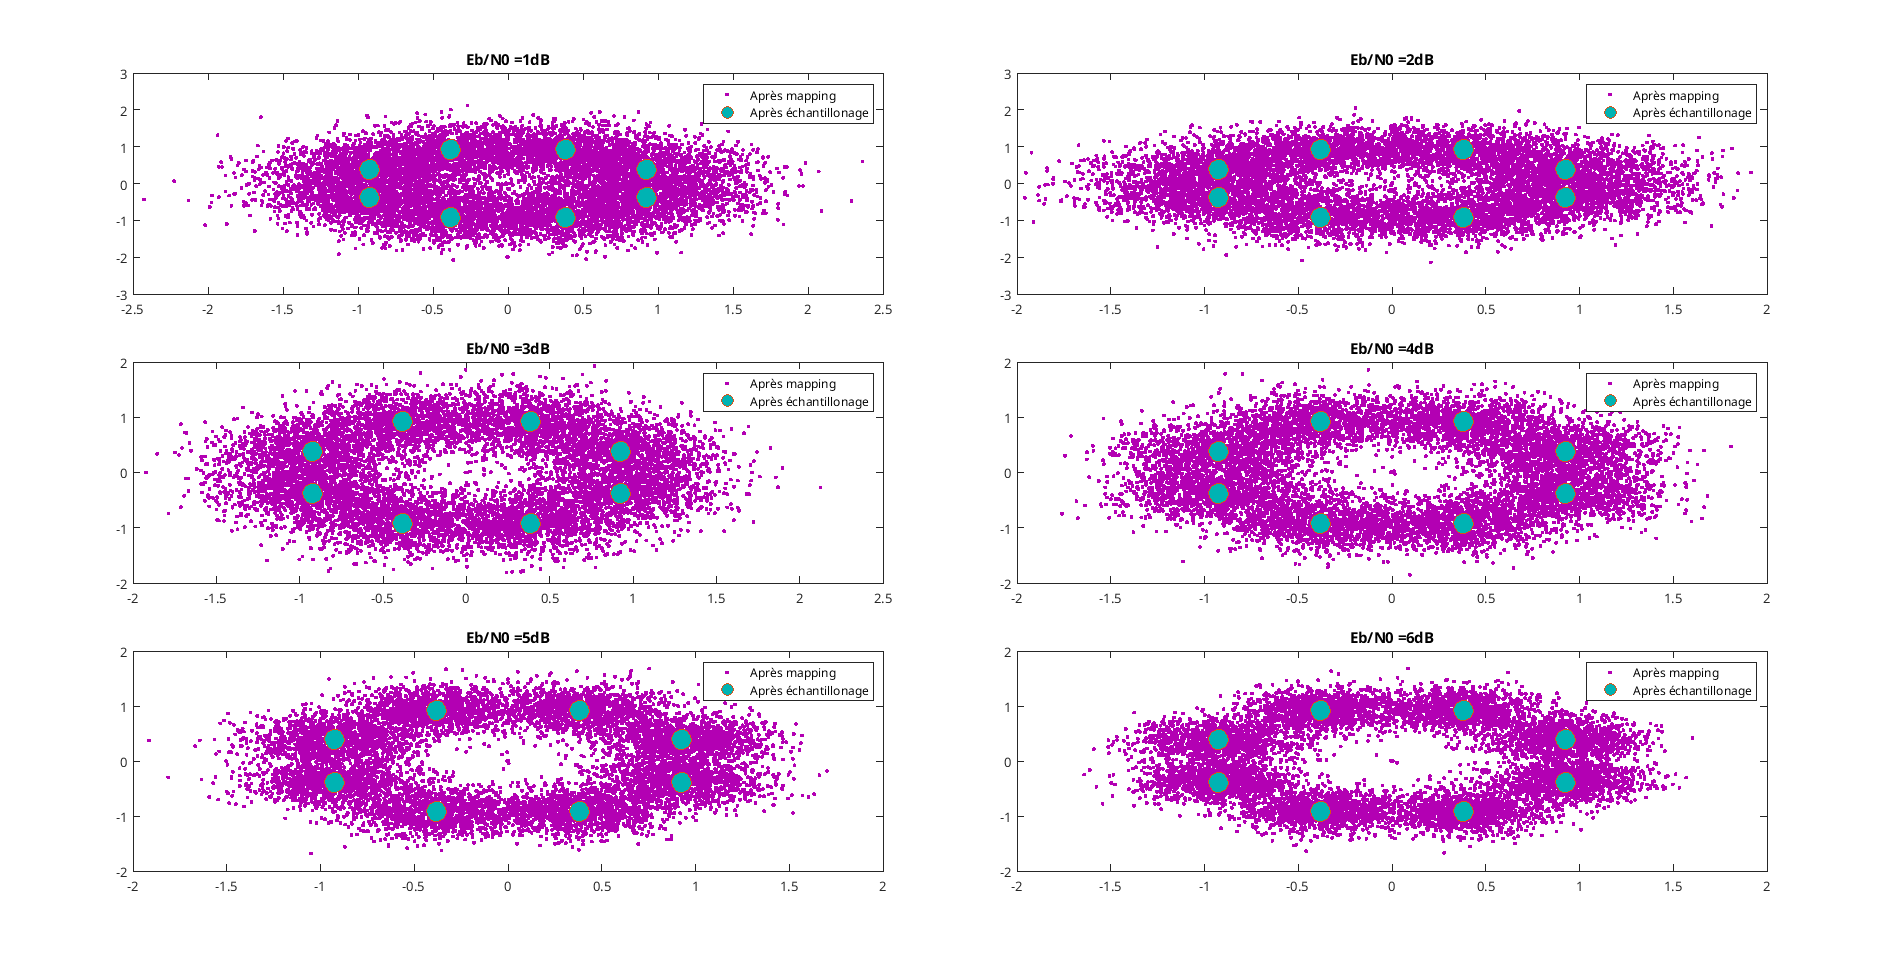
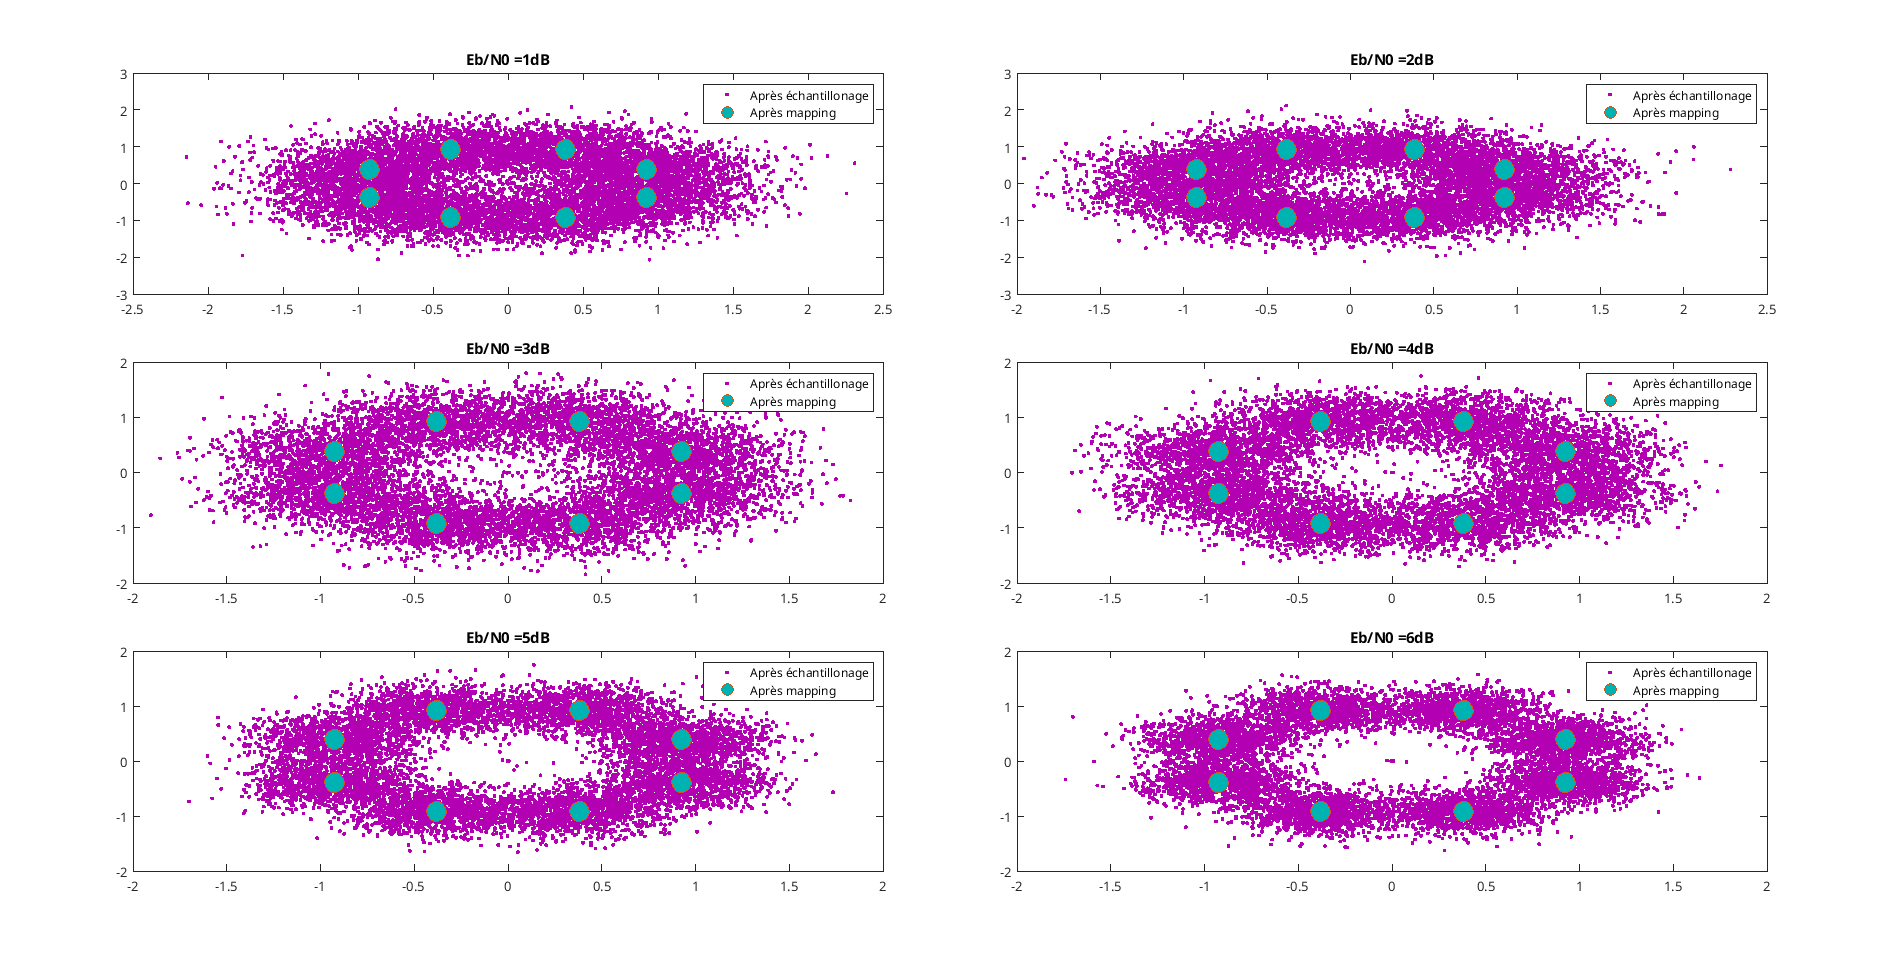
fix: figures + legends

diff --git a/dvbs.m b/dvbs.m
@@ -8,7 +8,7 @@ fp = 2000; % Fréquence porteuse
 Te = 1 / Fe; % Période d’échantillonnage
 Rs = Rb / log2(M); % Débit symbole
 Ns = Fe / Rs; % Facteur de sur échantillonnage
-nbits = 10000 * log2(M); % Nombre de bits à transmettre
+nbits = 100 * log2(M); % Nombre de bits à transmettre
 
 rolloff = 0.35; % Roll-off du filtre de mise en forme
 span = 20; % Durée du filtre en symboles de base

diff --git a/dvbs_equ.m b/dvbs_equ.m
@@ -74,7 +74,7 @@ function [DSP, f, TEB_xp] = dvbs_equ()
             plot(symboles, 'O', "MarkerFaceColor", [0 0.7 0.7], 'MarkerSize', 15);
             hold off
             title("Eb/N0 =" + EbN0dB + "dB")
-            legend('Après mapping', 'Après échantillonage')
+            legend('Après échantillonage', 'Après mapping')
         end
 
         switch M

diff --git a/dvbs2.m b/dvbs2.m
@@ -74,7 +74,7 @@ function [DSP, f, TEB_xp] = dvb2()
             plot(symboles, 'O', "MarkerFaceColor", [0 0.7 0.7], 'MarkerSize', 15);
             hold off
             title("Eb/N0 =" + EbN0dB + "dB")
-            legend('Après mapping', 'Après échantillonage')
+            legend('Après échantillonage', 'Après mapping' )
         end
 
         switch M

diff --git a/qask.m b/qask.m
@@ -76,7 +76,7 @@ function [DSP, f, TEB_xp] = qask()
             plot(symboles, 'O', "MarkerFaceColor", [0 0.7 0.7], 'MarkerSize', 15);
             hold off
             title("Eb/N0 =" + EbN0dB + "dB")
-            legend('Après mapping', 'Après échantillonage')
+            legend('Après échantillonage', 'Après mapping')
         end
 
         switch M
